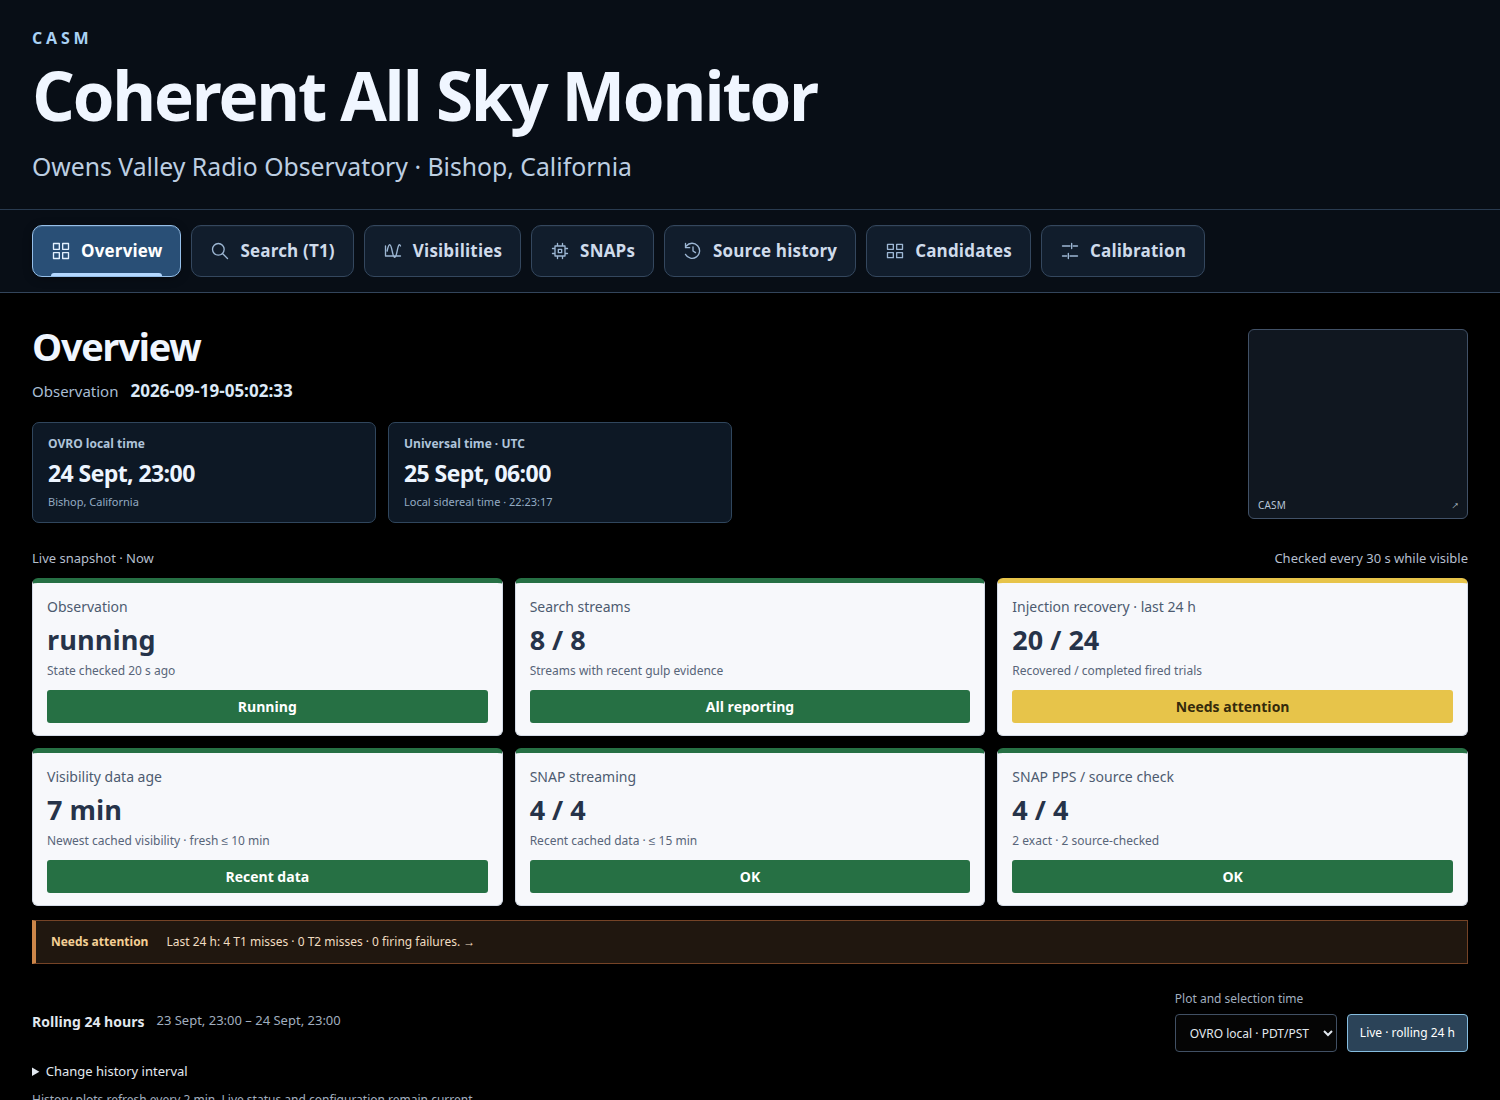
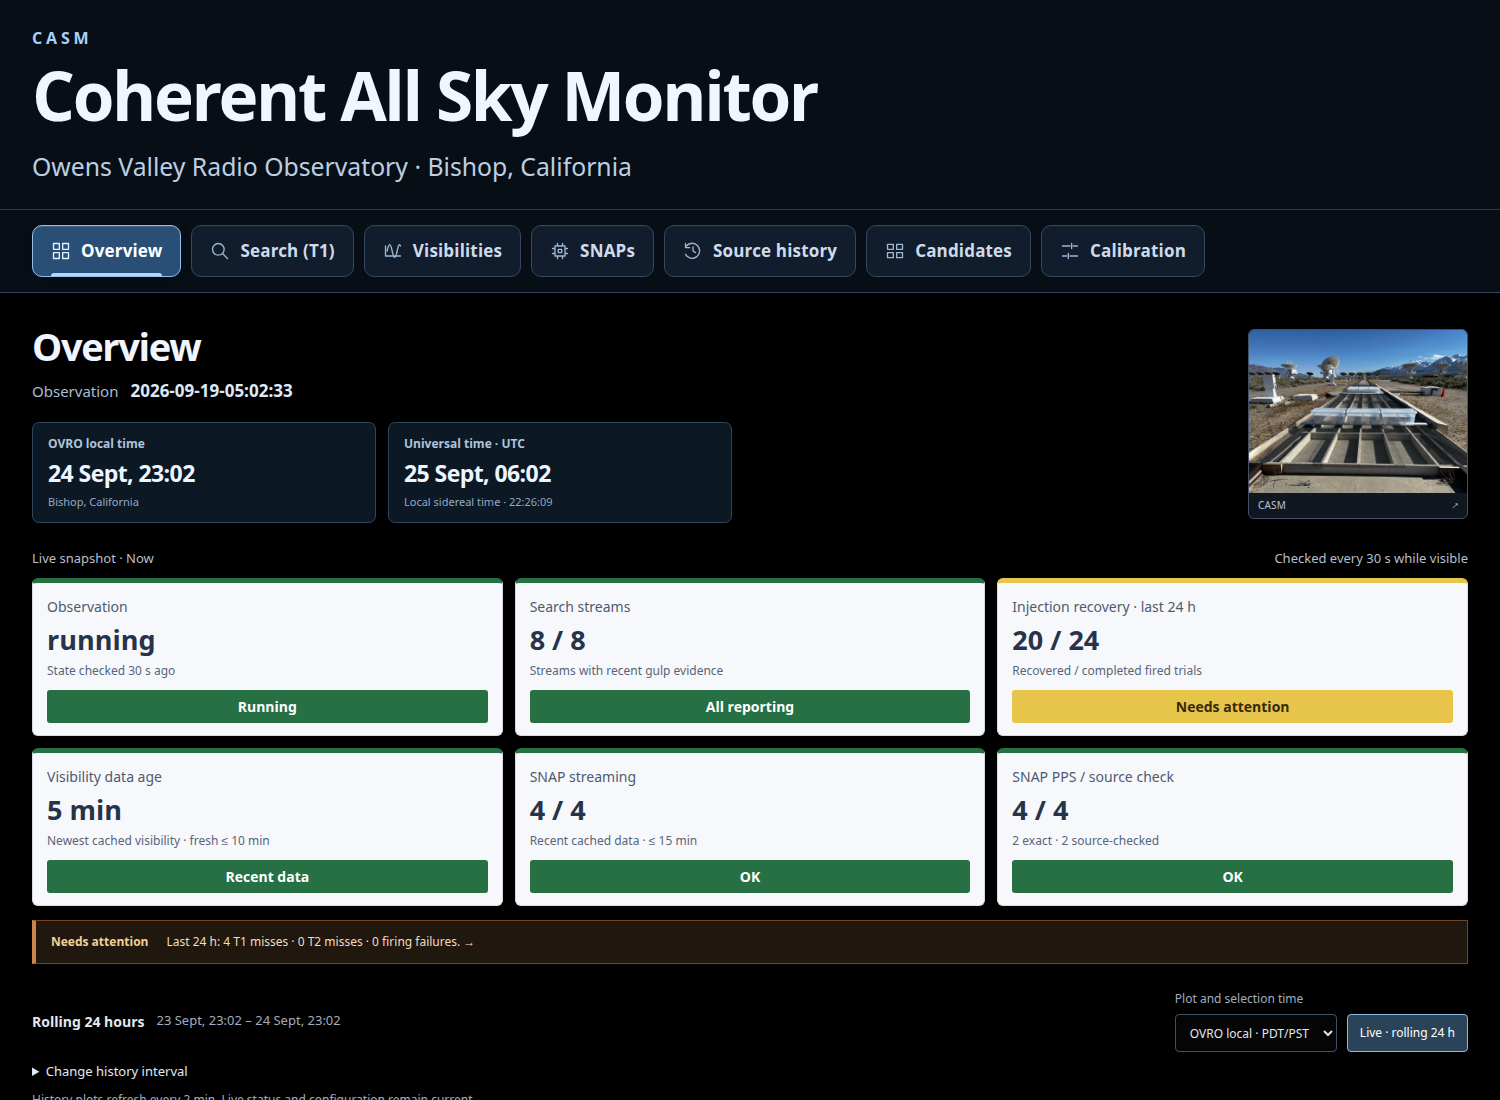
Wait for the telescope photo before capturing Overview

Changed region(s): [[0.828, 0.2782, 0.9813, 0.4636], [0.3373, 0.4327, 0.368, 0.4636]]

diff --git a/scripts/check_array_membership_browser.py b/scripts/check_array_membership_browser.py
@@ -71,6 +71,8 @@ def main():
         screenshot('vis-beamforming-default.png')
         page.goto(URL+'/observation', wait_until='domcontentloaded')
         page.wait_for_function('document.querySelectorAll(".overview-map .beamforming").length>0', polling=100, timeout=90000)
+        page.wait_for_function('document.querySelector(".overview-photo img")?.complete && document.querySelector(".overview-photo img")?.naturalWidth>0',polling=100,timeout=30000)
+        page.locator('.overview-photo img').evaluate('img=>img.decode()')
         page.wait_for_function("!document.querySelector('a.overview-stat[href=\"/snaps\"] strong')?.textContent?.includes('Unknown')",polling=100,timeout=30000)
         assert page.locator('.overview-map .beamforming').first.evaluate('e=>getComputedStyle(e).backgroundColor') == green
         for width in [1500, 1024, 700, 390, 320]:
